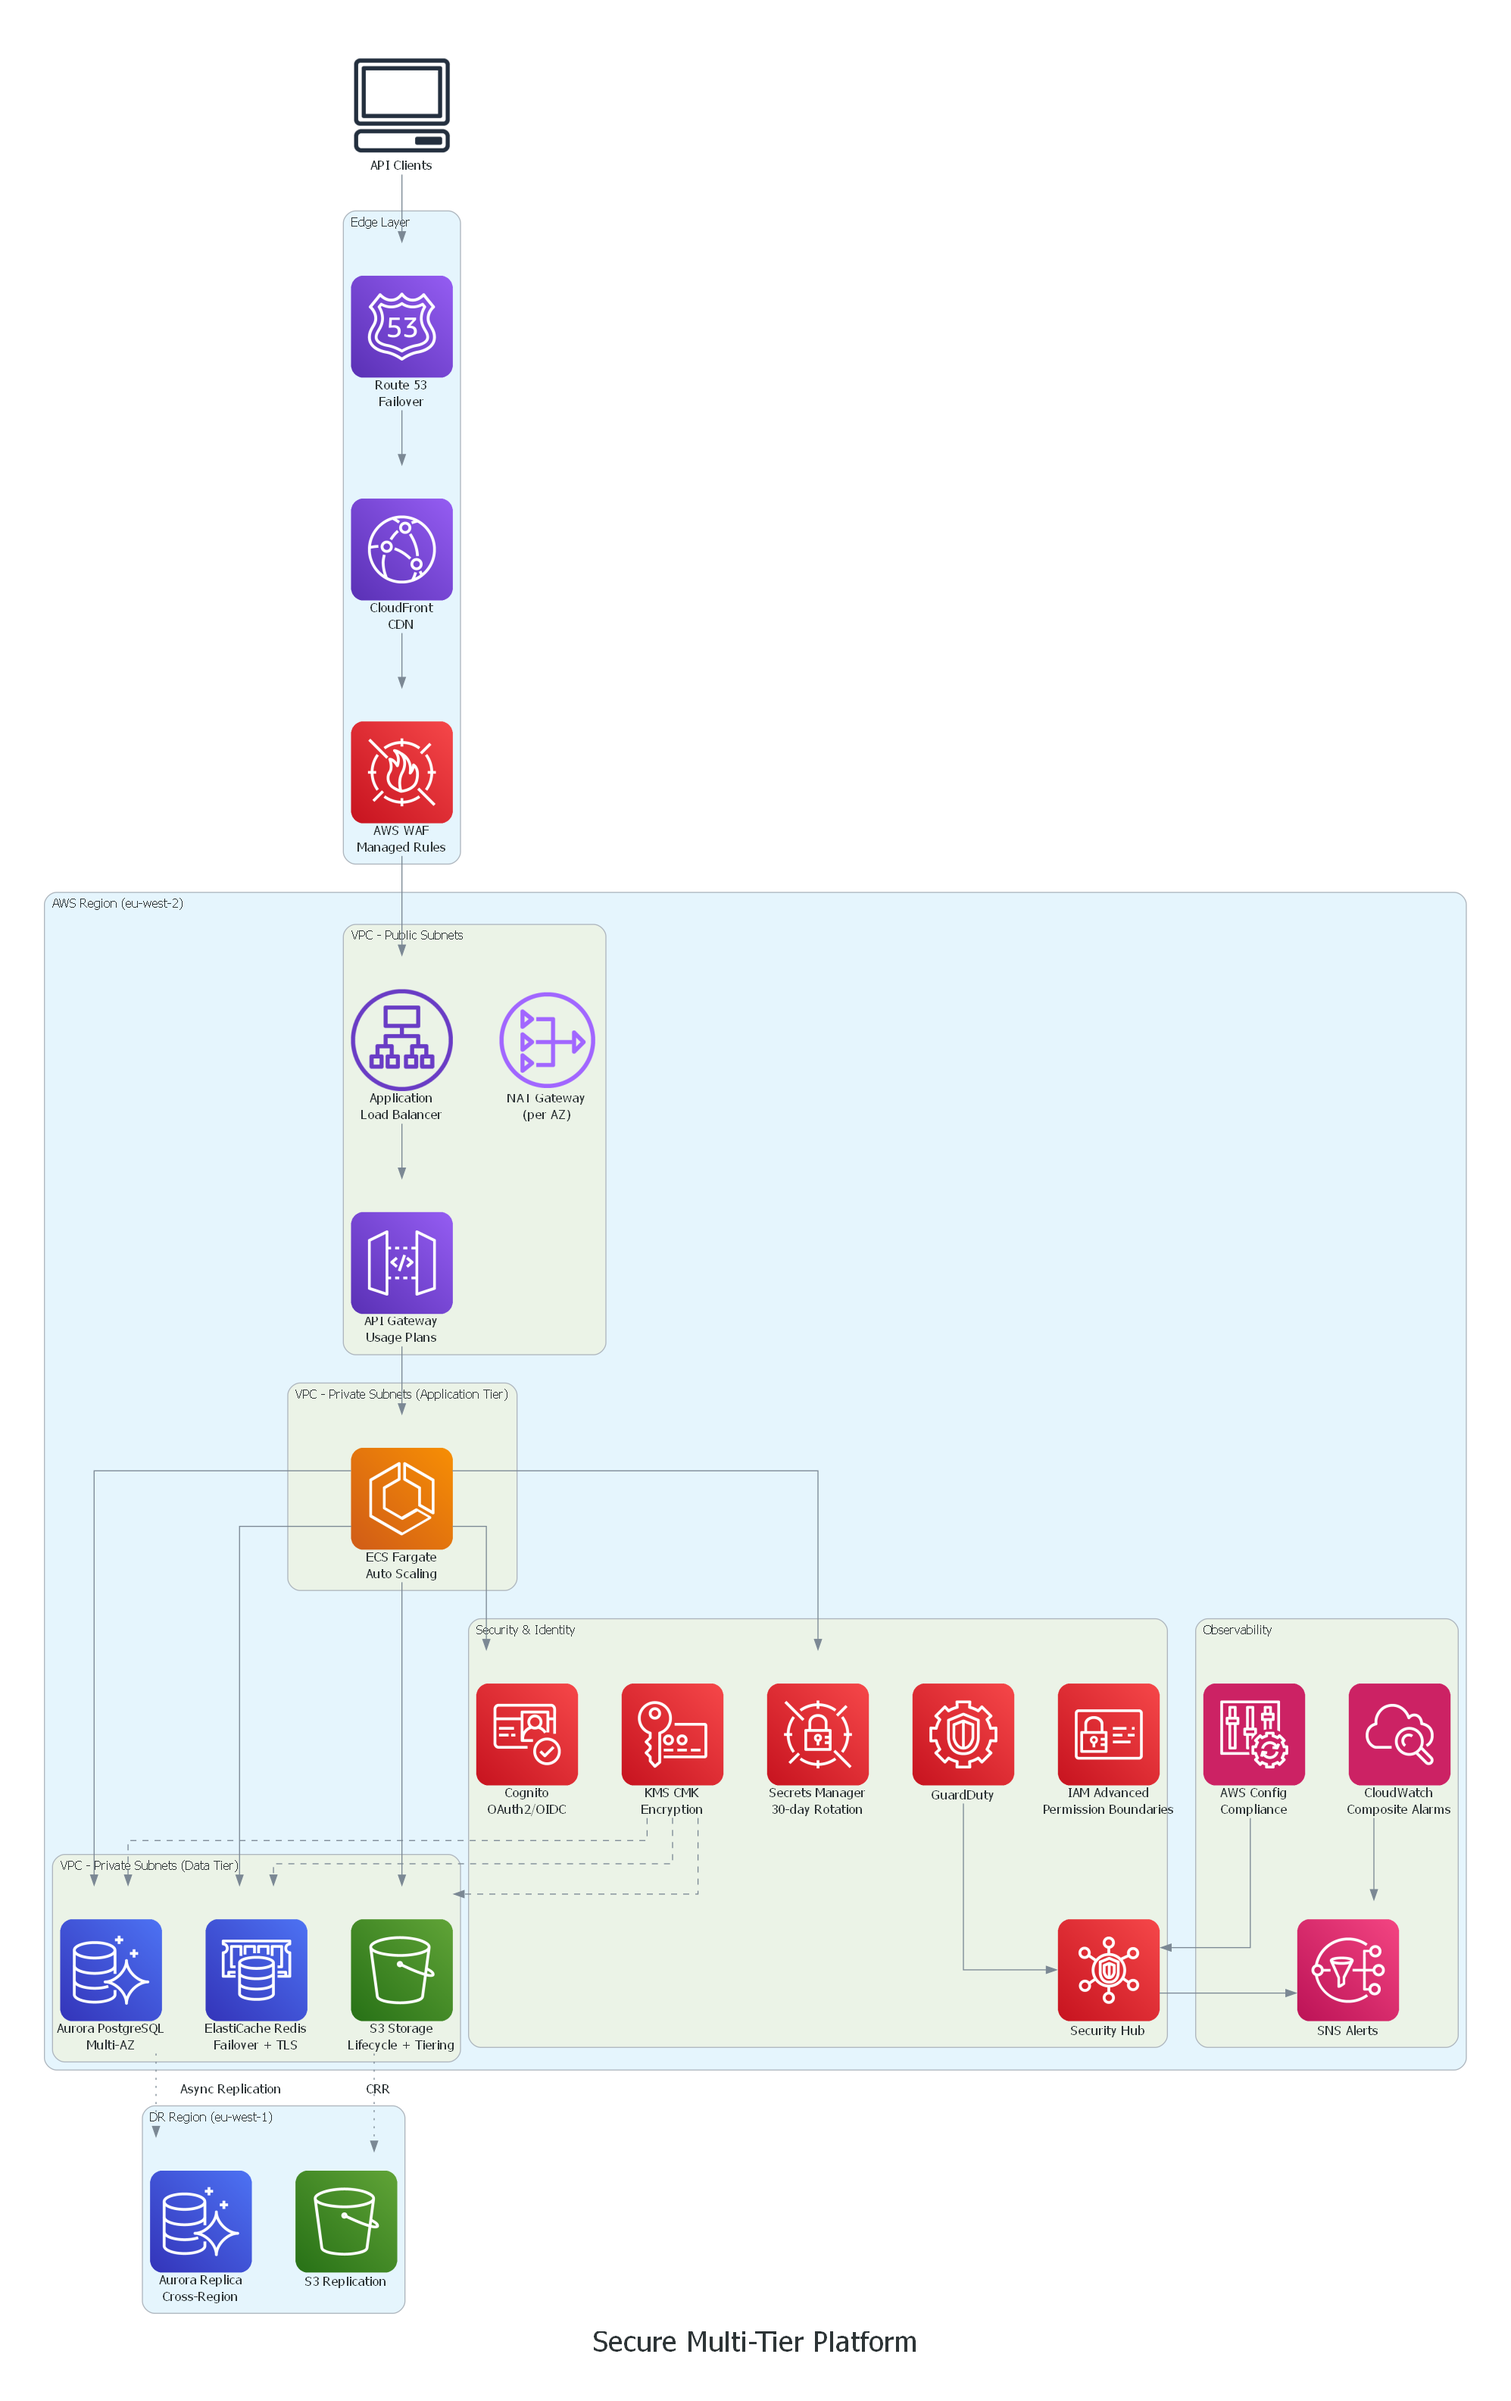
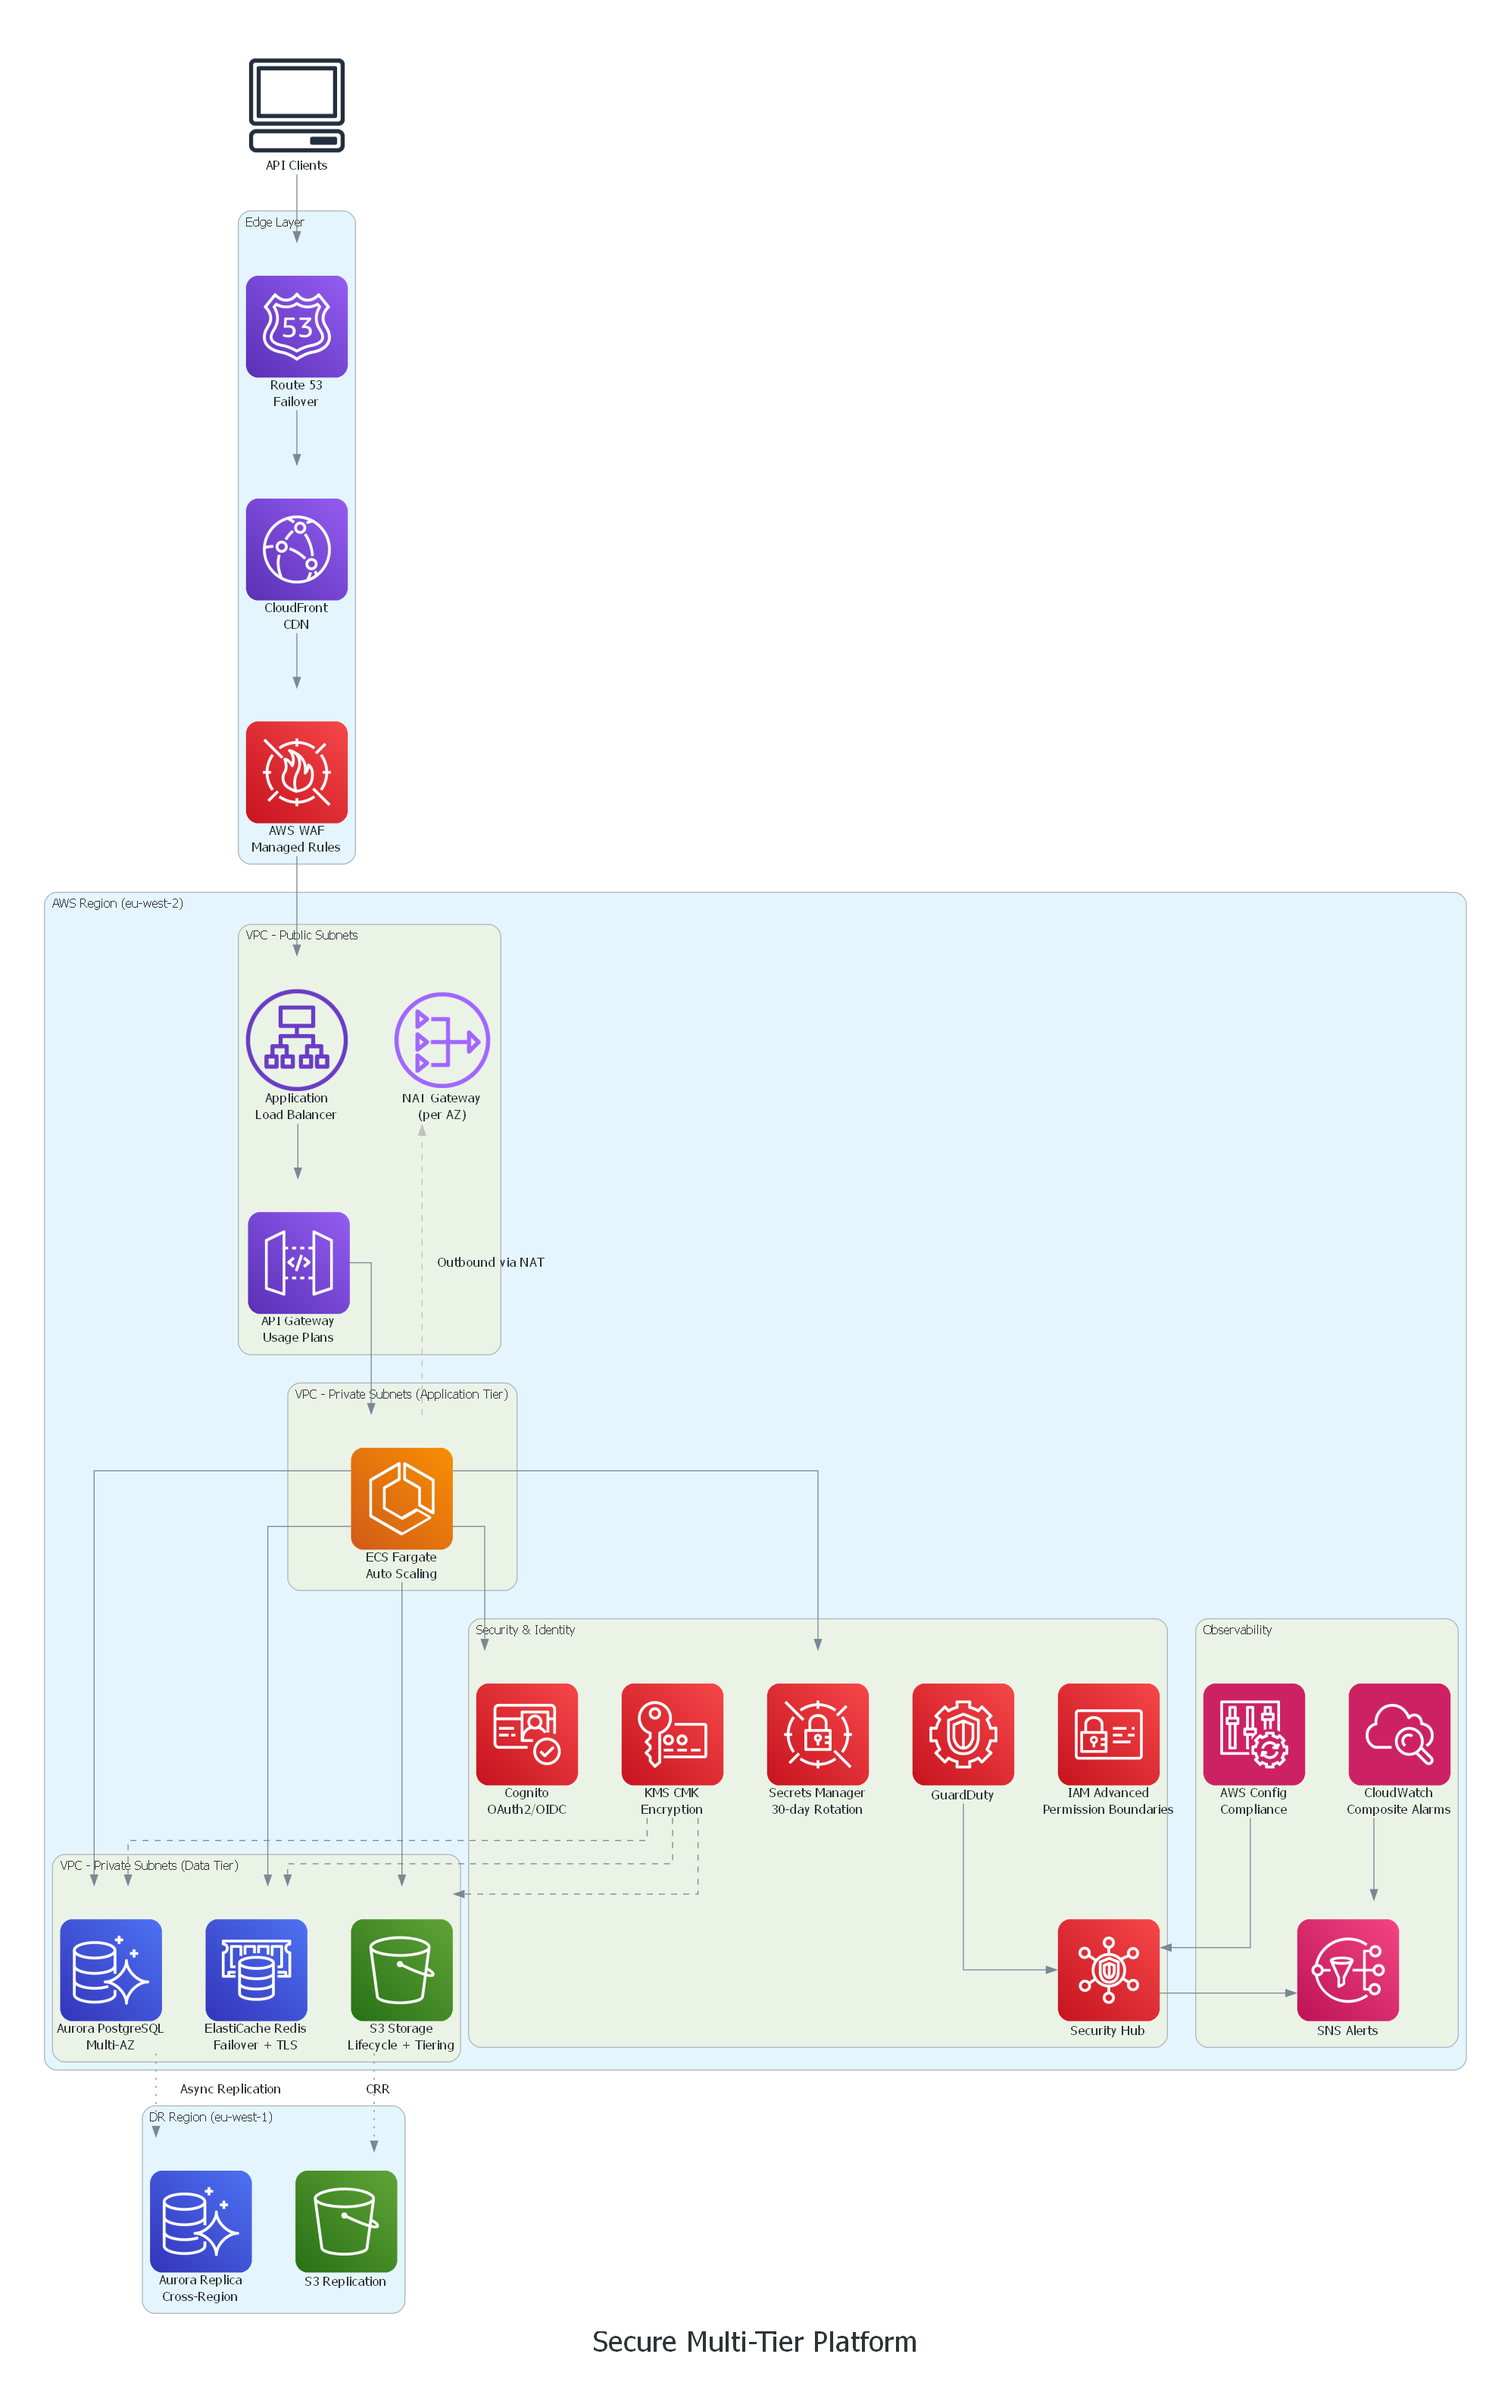
fix: add NAT Gateway connection from ECS private subnets

Changed region(s): [[0.1554, 0.0, 0.3108, 0.3749], [0.1554, 0.4061, 0.404, 0.4686], [0.1554, 0.4998, 0.3108, 0.5623]]

diff --git a/scripts/generate_architecture_diagram.py b/scripts/generate_architecture_diagram.py
@@ -74,6 +74,9 @@ with Diagram("Secure Multi-Tier Platform", show=False, filename="docs/architectu
     sechub >> sns
     cw >> sns
 
+    # NAT Gateway (private subnet outbound)
+    ecs >> Edge(style="dashed", color="gray", label="Outbound via NAT") >> nat
+
     # DR connections
     aurora >> Edge(style="dotted", label="Async Replication") >> aurora_dr
     s3 >> Edge(style="dotted", label="CRR") >> s3_dr
